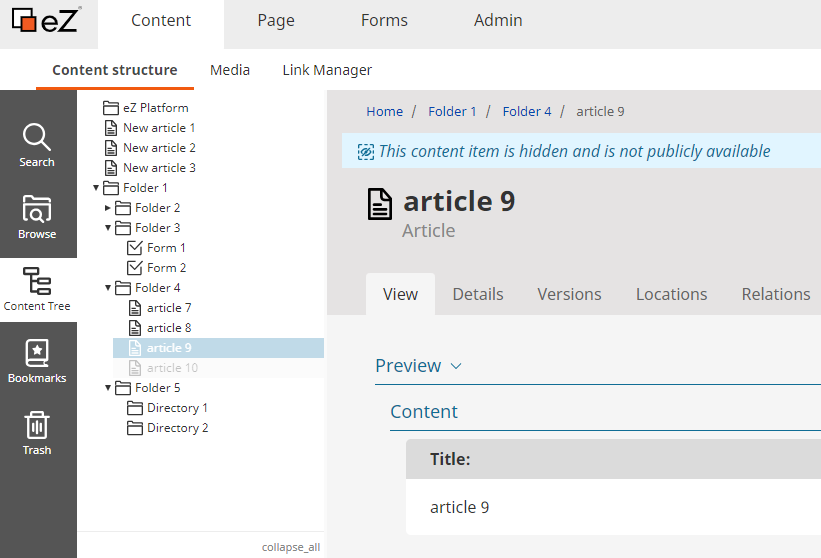
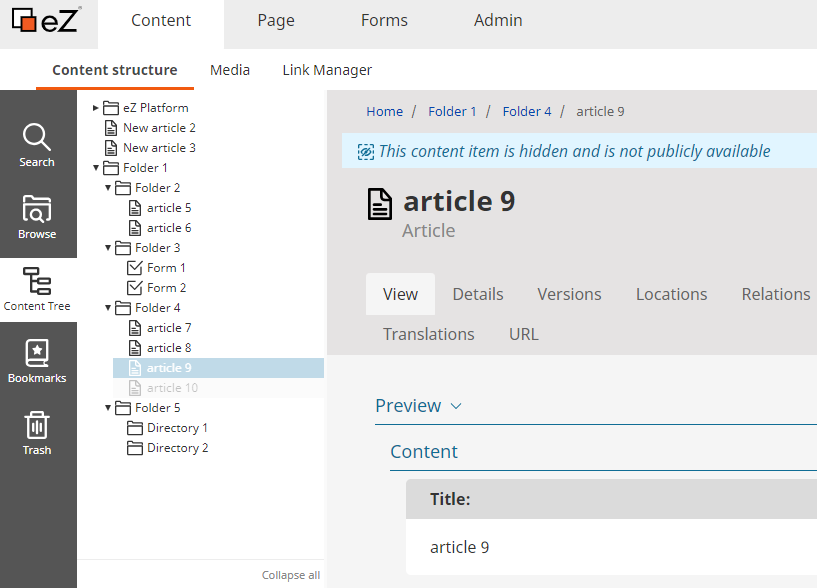
img update

diff --git a/docs/content_model.md b/docs/content_model.md
@@ -117,6 +117,6 @@ Unique icons for each Content Type instantly show you what type of content you a
 Hidden content is blurred out in the tree view. 
 
 To simplify the Content Tree, big lists are shortened with a **Show more** option. You can select it to expand all lists in the tree.
-The **collapse_all** option situated at the bottom of the tree closes all expanded sections.
+The **Collapse all** option situated at the bottom of the tree closes all expanded sections.
 
 For more information on custom configuration, go to [Content Tree](https://doc.ezplatform.com/en/latest/guide/config_back_office/#content-tree) in developer documentation.
